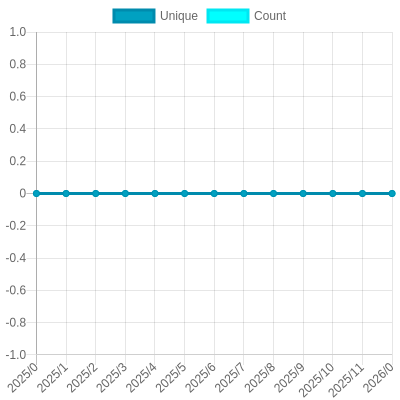
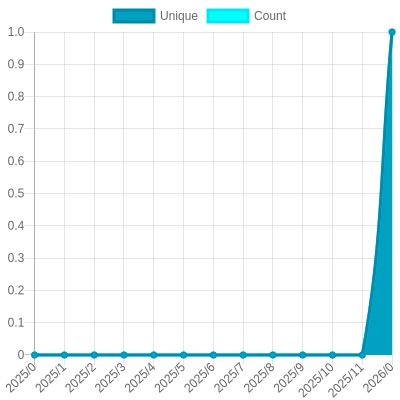
Update views

diff --git a/README.md b/README.md
@@ -26,7 +26,7 @@ The project created and maintained by [gayanvoice](https://github.com/gayanvoice
 			</a>
 		</td>
 		<td>
-			2025/1/22 5:54 PM UTC
+			2025/1/23 5:54 PM UTC
 		</td>
 		<td>
 			0
@@ -42,7 +42,7 @@ The project created and maintained by [gayanvoice](https://github.com/gayanvoice
 			</a>
 		</td>
 		<td>
-			2025/1/22 5:55 PM UTC
+			2025/1/23 5:55 PM UTC
 		</td>
 		<td>
 			0
@@ -53,7 +53,7 @@ The project created and maintained by [gayanvoice](https://github.com/gayanvoice
 	</tr>
 </table>
 
-<small><i>Last updated on 2025/1/24 6:16 PM UTC</i></small>
+<small><i>Last updated on 2025/1/25 12:53 AM UTC</i></small>
 
 ## ✂Copy and 📋 Paste
 ### Total Views Badge

diff --git a/readme/921828714/year.md b/readme/921828714/year.md
@@ -23,10 +23,10 @@
 			<code>2025/1/1</code>
 		</td>
 		<td>
-			<code>0</code>
+			<code>1</code>
 		</td>
 		<td>
-			<code>0</code>
+			<code>1</code>
 		</td>
 	</tr>
 	<tr>
@@ -164,7 +164,7 @@
 </table>
 
 </details>
-<small><i>Last updated on 2025/1/24 6:16 PM UTC</i></small>
+<small><i>Last updated on 2025/1/25 12:53 AM UTC</i></small>
 
 ## ✂Copy and 📋 Paste
 ### SVG Badge

diff --git a/readme/921830105/year.md b/readme/921830105/year.md
@@ -23,10 +23,10 @@
 			<code>2025/1/1</code>
 		</td>
 		<td>
-			<code>1</code>
+			<code>2</code>
 		</td>
 		<td>
-			<code>2</code>
+			<code>4</code>
 		</td>
 	</tr>
 	<tr>
@@ -164,7 +164,7 @@
 </table>
 
 </details>
-<small><i>Last updated on 2025/1/24 6:16 PM UTC</i></small>
+<small><i>Last updated on 2025/1/25 12:52 AM UTC</i></small>
 
 ## ✂Copy and 📋 Paste
 ### SVG Badge
